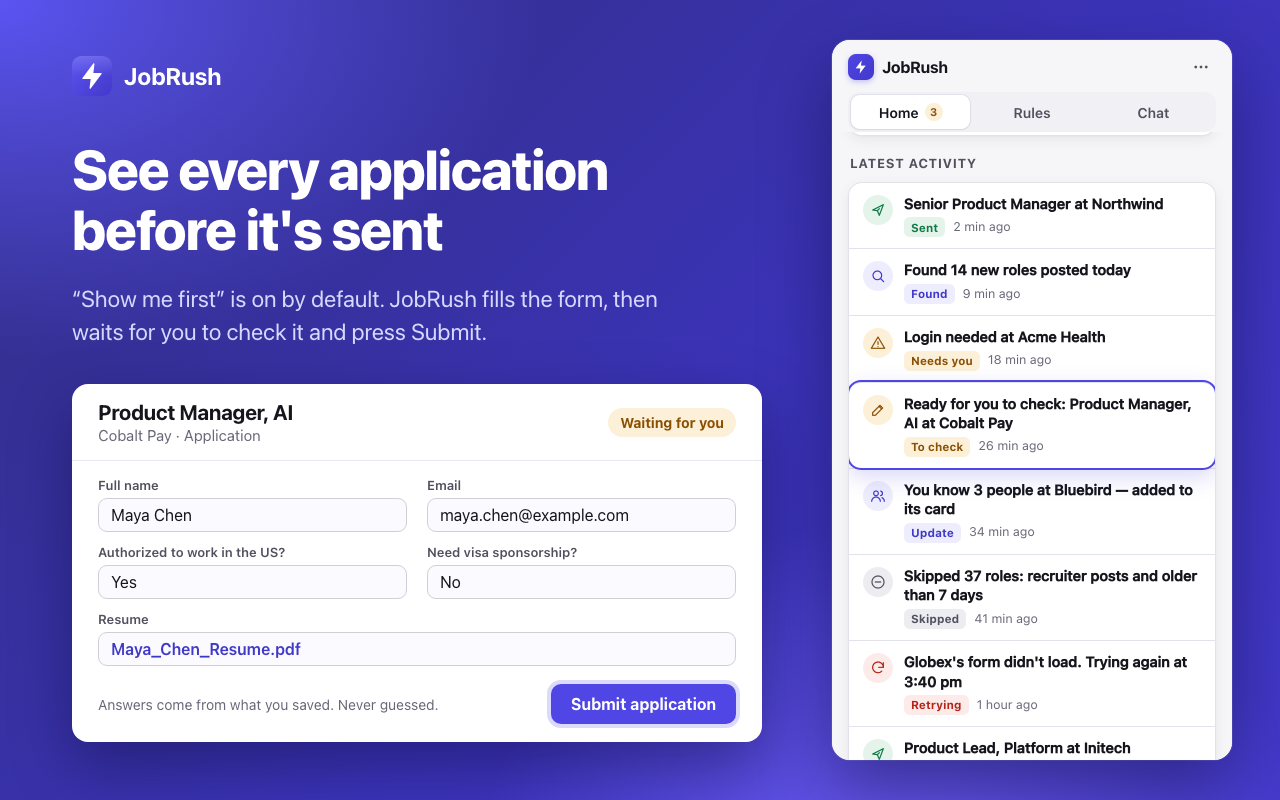
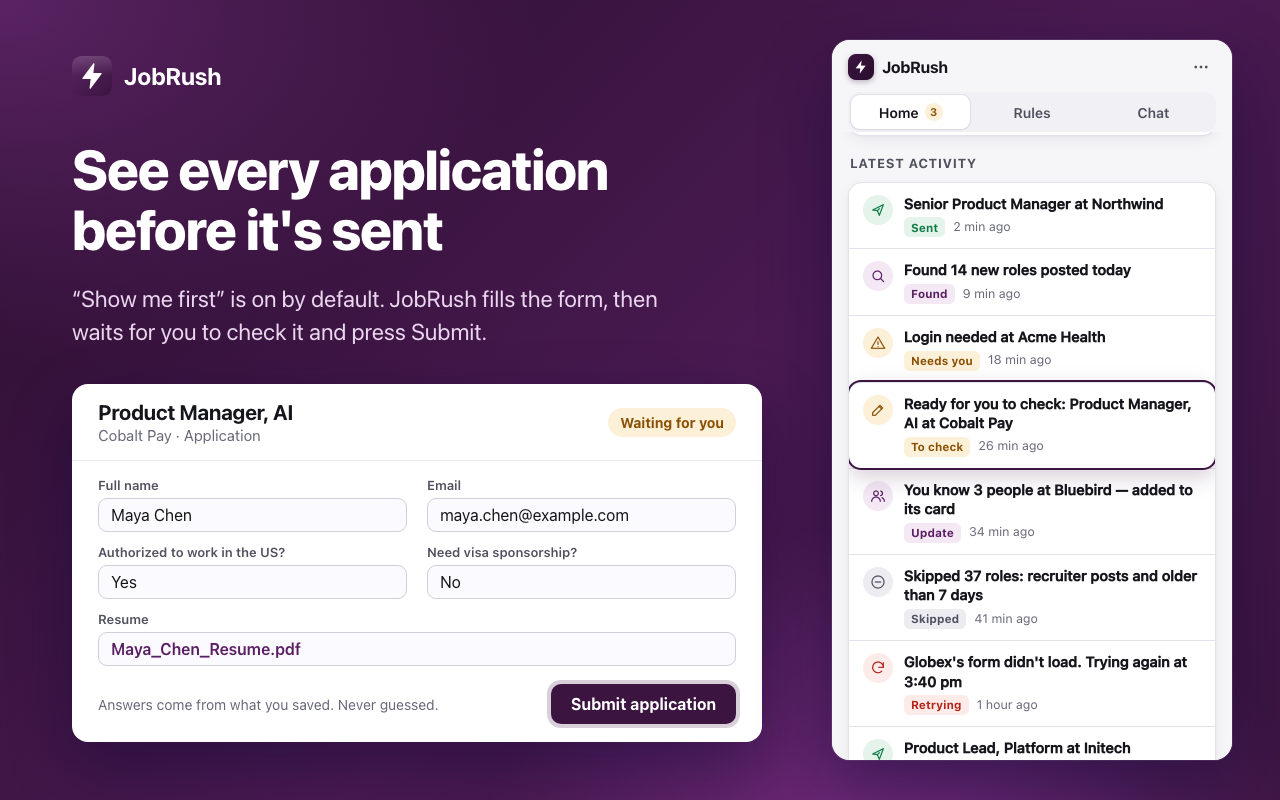
Switch site to JobRush purple

diff --git a/index.html b/index.html
@@ -3,8 +3,8 @@
 <title>JobRush – Automatic Job Finder & Auto Apply</title><meta name="description" content="JobRush finds fresh jobs, fills applications for you and tracks every company on your Notion board. Free, no account, private AI on your device.">
 <link rel="icon" type="image/png" href="/jobrush/assets/favicon.png">
 <style>
-:root{--bg:#f6f6f9;--surface:#fff;--text:#15151c;--text-2:#50505f;--border:#e2e2ea;--accent:#4f46e5;--accent-text:#4038c8;--accent-soft:#eeedfd;--hero1:#312e81;--hero2:#4338ca;--code:#f0f0f5}
-@media (prefers-color-scheme:dark){:root{--bg:#0e0e13;--surface:#17171e;--text:#f0f0f5;--text-2:#b9b9c8;--border:#2a2a35;--accent:#8d88ff;--accent-text:#b4b1ff;--accent-soft:#23213f;--code:#1f1f28}}
+:root{--bg:#f6f6f9;--surface:#fff;--text:#15151c;--text-2:#50505f;--border:#e2e2ea;--accent:#3b1540;--accent-text:#5a1f63;--accent-soft:#f3e8f4;--hero1:#2a0e2e;--hero2:#5a2363;--code:#f0f0f5}
+@media (prefers-color-scheme:dark){:root{--bg:#0e0e13;--surface:#17171e;--text:#f0f0f5;--text-2:#b9b9c8;--border:#2a2a35;--accent:#8a3b98;--accent-text:#e2c3e7;--accent-soft:#2d1631;--code:#1f1f28}}
 *{box-sizing:border-box}
 body{margin:0;background:var(--bg);color:var(--text);font:16px/1.6 system-ui,-apple-system,"Segoe UI",Roboto,Helvetica,Arial,sans-serif;-webkit-font-smoothing:antialiased}
 a{color:var(--accent-text)}
@@ -26,10 +26,10 @@ footer a{color:var(--text-2)}
 .hero{background:linear-gradient(135deg,var(--hero1),var(--hero2));color:#fff;border-radius:20px;padding:clamp(28px,6vw,56px) clamp(20px,5vw,48px);text-align:center}
 .hero img{width:88px;height:88px}
 .hero h1{font-size:clamp(34px,7vw,52px);margin:10px 0 6px;letter-spacing:-.03em;line-height:1.05}
-.hero p{font-size:clamp(17px,2.6vw,20px);color:#dfe1ff;margin:8px auto 0;max-width:620px}
-.cta{display:inline-block;margin-top:26px;background:#fff;color:#3b33b8;font-weight:700;font-size:17px;text-decoration:none;padding:13px 24px;border-radius:12px;box-shadow:0 8px 24px rgba(10,8,50,.3)}
-.cta:hover{background:#eeedfd}
-.small{font-size:14px;color:#c7c9f5;margin-top:12px}
+.hero p{font-size:clamp(17px,2.6vw,20px);color:#f3e8f4;margin:8px auto 0;max-width:620px}
+.cta{display:inline-block;margin-top:26px;background:#fff;color:#3b1540;font-weight:700;font-size:17px;text-decoration:none;padding:13px 24px;border-radius:12px;box-shadow:0 8px 24px rgba(31,10,34,.3)}
+.cta:hover{background:#f3e8f4}
+.small{font-size:14px;color:#e2c3e7;margin-top:12px}
 .feats{display:grid;grid-template-columns:repeat(auto-fit,minmax(240px,1fr));gap:14px;margin:28px 0}
 .feat{background:var(--surface);border:1px solid var(--border);border-radius:14px;padding:18px 20px}
 .feat h3{margin:0 0 4px;font-size:17px}.feat p{margin:0;color:var(--text-2);font-size:15px}

diff --git a/privacy/index.html b/privacy/index.html
@@ -3,8 +3,8 @@
 <title>JobRush Privacy Policy</title><meta name="description" content="How JobRush handles your data: it stays in your browser and on your own Notion board.">
 <link rel="icon" type="image/png" href="/jobrush/assets/favicon.png">
 <style>
-:root{--bg:#f6f6f9;--surface:#fff;--text:#15151c;--text-2:#50505f;--border:#e2e2ea;--accent:#4f46e5;--accent-text:#4038c8;--accent-soft:#eeedfd;--hero1:#312e81;--hero2:#4338ca;--code:#f0f0f5}
-@media (prefers-color-scheme:dark){:root{--bg:#0e0e13;--surface:#17171e;--text:#f0f0f5;--text-2:#b9b9c8;--border:#2a2a35;--accent:#8d88ff;--accent-text:#b4b1ff;--accent-soft:#23213f;--code:#1f1f28}}
+:root{--bg:#f6f6f9;--surface:#fff;--text:#15151c;--text-2:#50505f;--border:#e2e2ea;--accent:#3b1540;--accent-text:#5a1f63;--accent-soft:#f3e8f4;--hero1:#2a0e2e;--hero2:#5a2363;--code:#f0f0f5}
+@media (prefers-color-scheme:dark){:root{--bg:#0e0e13;--surface:#17171e;--text:#f0f0f5;--text-2:#b9b9c8;--border:#2a2a35;--accent:#8a3b98;--accent-text:#e2c3e7;--accent-soft:#2d1631;--code:#1f1f28}}
 *{box-sizing:border-box}
 body{margin:0;background:var(--bg);color:var(--text);font:16px/1.6 system-ui,-apple-system,"Segoe UI",Roboto,Helvetica,Arial,sans-serif;-webkit-font-smoothing:antialiased}
 a{color:var(--accent-text)}
@@ -26,10 +26,10 @@ footer a{color:var(--text-2)}
 .hero{background:linear-gradient(135deg,var(--hero1),var(--hero2));color:#fff;border-radius:20px;padding:clamp(28px,6vw,56px) clamp(20px,5vw,48px);text-align:center}
 .hero img{width:88px;height:88px}
 .hero h1{font-size:clamp(34px,7vw,52px);margin:10px 0 6px;letter-spacing:-.03em;line-height:1.05}
-.hero p{font-size:clamp(17px,2.6vw,20px);color:#dfe1ff;margin:8px auto 0;max-width:620px}
-.cta{display:inline-block;margin-top:26px;background:#fff;color:#3b33b8;font-weight:700;font-size:17px;text-decoration:none;padding:13px 24px;border-radius:12px;box-shadow:0 8px 24px rgba(10,8,50,.3)}
-.cta:hover{background:#eeedfd}
-.small{font-size:14px;color:#c7c9f5;margin-top:12px}
+.hero p{font-size:clamp(17px,2.6vw,20px);color:#f3e8f4;margin:8px auto 0;max-width:620px}
+.cta{display:inline-block;margin-top:26px;background:#fff;color:#3b1540;font-weight:700;font-size:17px;text-decoration:none;padding:13px 24px;border-radius:12px;box-shadow:0 8px 24px rgba(31,10,34,.3)}
+.cta:hover{background:#f3e8f4}
+.small{font-size:14px;color:#e2c3e7;margin-top:12px}
 .feats{display:grid;grid-template-columns:repeat(auto-fit,minmax(240px,1fr));gap:14px;margin:28px 0}
 .feat{background:var(--surface);border:1px solid var(--border);border-radius:14px;padding:18px 20px}
 .feat h3{margin:0 0 4px;font-size:17px}.feat p{margin:0;color:var(--text-2);font-size:15px}

diff --git a/support/index.html b/support/index.html
@@ -3,8 +3,8 @@
 <title>JobRush Help</title><meta name="description" content="Getting started with JobRush, common questions and troubleshooting.">
 <link rel="icon" type="image/png" href="/jobrush/assets/favicon.png">
 <style>
-:root{--bg:#f6f6f9;--surface:#fff;--text:#15151c;--text-2:#50505f;--border:#e2e2ea;--accent:#4f46e5;--accent-text:#4038c8;--accent-soft:#eeedfd;--hero1:#312e81;--hero2:#4338ca;--code:#f0f0f5}
-@media (prefers-color-scheme:dark){:root{--bg:#0e0e13;--surface:#17171e;--text:#f0f0f5;--text-2:#b9b9c8;--border:#2a2a35;--accent:#8d88ff;--accent-text:#b4b1ff;--accent-soft:#23213f;--code:#1f1f28}}
+:root{--bg:#f6f6f9;--surface:#fff;--text:#15151c;--text-2:#50505f;--border:#e2e2ea;--accent:#3b1540;--accent-text:#5a1f63;--accent-soft:#f3e8f4;--hero1:#2a0e2e;--hero2:#5a2363;--code:#f0f0f5}
+@media (prefers-color-scheme:dark){:root{--bg:#0e0e13;--surface:#17171e;--text:#f0f0f5;--text-2:#b9b9c8;--border:#2a2a35;--accent:#8a3b98;--accent-text:#e2c3e7;--accent-soft:#2d1631;--code:#1f1f28}}
 *{box-sizing:border-box}
 body{margin:0;background:var(--bg);color:var(--text);font:16px/1.6 system-ui,-apple-system,"Segoe UI",Roboto,Helvetica,Arial,sans-serif;-webkit-font-smoothing:antialiased}
 a{color:var(--accent-text)}
@@ -26,10 +26,10 @@ footer a{color:var(--text-2)}
 .hero{background:linear-gradient(135deg,var(--hero1),var(--hero2));color:#fff;border-radius:20px;padding:clamp(28px,6vw,56px) clamp(20px,5vw,48px);text-align:center}
 .hero img{width:88px;height:88px}
 .hero h1{font-size:clamp(34px,7vw,52px);margin:10px 0 6px;letter-spacing:-.03em;line-height:1.05}
-.hero p{font-size:clamp(17px,2.6vw,20px);color:#dfe1ff;margin:8px auto 0;max-width:620px}
-.cta{display:inline-block;margin-top:26px;background:#fff;color:#3b33b8;font-weight:700;font-size:17px;text-decoration:none;padding:13px 24px;border-radius:12px;box-shadow:0 8px 24px rgba(10,8,50,.3)}
-.cta:hover{background:#eeedfd}
-.small{font-size:14px;color:#c7c9f5;margin-top:12px}
+.hero p{font-size:clamp(17px,2.6vw,20px);color:#f3e8f4;margin:8px auto 0;max-width:620px}
+.cta{display:inline-block;margin-top:26px;background:#fff;color:#3b1540;font-weight:700;font-size:17px;text-decoration:none;padding:13px 24px;border-radius:12px;box-shadow:0 8px 24px rgba(31,10,34,.3)}
+.cta:hover{background:#f3e8f4}
+.small{font-size:14px;color:#e2c3e7;margin-top:12px}
 .feats{display:grid;grid-template-columns:repeat(auto-fit,minmax(240px,1fr));gap:14px;margin:28px 0}
 .feat{background:var(--surface);border:1px solid var(--border);border-radius:14px;padding:18px 20px}
 .feat h3{margin:0 0 4px;font-size:17px}.feat p{margin:0;color:var(--text-2);font-size:15px}

diff --git a/terms/index.html b/terms/index.html
@@ -3,8 +3,8 @@
 <title>JobRush Terms of Use</title><meta name="description" content="Terms of use for the JobRush browser extension.">
 <link rel="icon" type="image/png" href="/jobrush/assets/favicon.png">
 <style>
-:root{--bg:#f6f6f9;--surface:#fff;--text:#15151c;--text-2:#50505f;--border:#e2e2ea;--accent:#4f46e5;--accent-text:#4038c8;--accent-soft:#eeedfd;--hero1:#312e81;--hero2:#4338ca;--code:#f0f0f5}
-@media (prefers-color-scheme:dark){:root{--bg:#0e0e13;--surface:#17171e;--text:#f0f0f5;--text-2:#b9b9c8;--border:#2a2a35;--accent:#8d88ff;--accent-text:#b4b1ff;--accent-soft:#23213f;--code:#1f1f28}}
+:root{--bg:#f6f6f9;--surface:#fff;--text:#15151c;--text-2:#50505f;--border:#e2e2ea;--accent:#3b1540;--accent-text:#5a1f63;--accent-soft:#f3e8f4;--hero1:#2a0e2e;--hero2:#5a2363;--code:#f0f0f5}
+@media (prefers-color-scheme:dark){:root{--bg:#0e0e13;--surface:#17171e;--text:#f0f0f5;--text-2:#b9b9c8;--border:#2a2a35;--accent:#8a3b98;--accent-text:#e2c3e7;--accent-soft:#2d1631;--code:#1f1f28}}
 *{box-sizing:border-box}
 body{margin:0;background:var(--bg);color:var(--text);font:16px/1.6 system-ui,-apple-system,"Segoe UI",Roboto,Helvetica,Arial,sans-serif;-webkit-font-smoothing:antialiased}
 a{color:var(--accent-text)}
@@ -26,10 +26,10 @@ footer a{color:var(--text-2)}
 .hero{background:linear-gradient(135deg,var(--hero1),var(--hero2));color:#fff;border-radius:20px;padding:clamp(28px,6vw,56px) clamp(20px,5vw,48px);text-align:center}
 .hero img{width:88px;height:88px}
 .hero h1{font-size:clamp(34px,7vw,52px);margin:10px 0 6px;letter-spacing:-.03em;line-height:1.05}
-.hero p{font-size:clamp(17px,2.6vw,20px);color:#dfe1ff;margin:8px auto 0;max-width:620px}
-.cta{display:inline-block;margin-top:26px;background:#fff;color:#3b33b8;font-weight:700;font-size:17px;text-decoration:none;padding:13px 24px;border-radius:12px;box-shadow:0 8px 24px rgba(10,8,50,.3)}
-.cta:hover{background:#eeedfd}
-.small{font-size:14px;color:#c7c9f5;margin-top:12px}
+.hero p{font-size:clamp(17px,2.6vw,20px);color:#f3e8f4;margin:8px auto 0;max-width:620px}
+.cta{display:inline-block;margin-top:26px;background:#fff;color:#3b1540;font-weight:700;font-size:17px;text-decoration:none;padding:13px 24px;border-radius:12px;box-shadow:0 8px 24px rgba(31,10,34,.3)}
+.cta:hover{background:#f3e8f4}
+.small{font-size:14px;color:#e2c3e7;margin-top:12px}
 .feats{display:grid;grid-template-columns:repeat(auto-fit,minmax(240px,1fr));gap:14px;margin:28px 0}
 .feat{background:var(--surface);border:1px solid var(--border);border-radius:14px;padding:18px 20px}
 .feat h3{margin:0 0 4px;font-size:17px}.feat p{margin:0;color:var(--text-2);font-size:15px}
